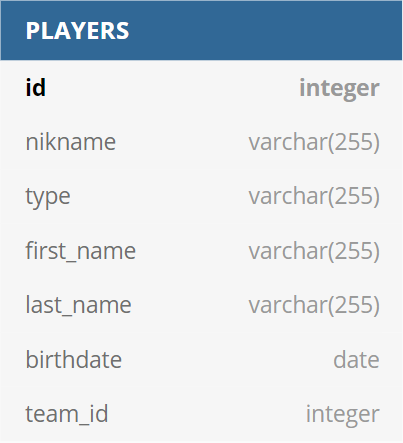
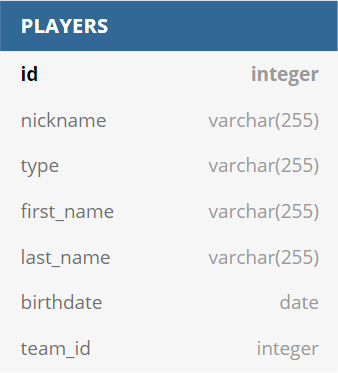
matrix done

diff --git a/course II/DBMS Oracle/My_project/README.md b/course II/DBMS Oracle/My_project/README.md
@@ -44,7 +44,7 @@ Table ARTICLES {
     title varchar(255) [not null]
     content text(15000) [not null]
     date date [not null]
-     event_id integer [null]
+    event_id integer [null]
     author_id integer [not null]
 }
    ```
@@ -146,12 +146,12 @@ Table MATCHES {
    ```dbml
 Table PLAYERS {
     id integer [pk, increment]
-    nikname varchar(255) [not null]
+    nickname varchar(255) [not null]
     type varchar(255) [not null]
     first_name varchar(255) [null]
     last_name varchar(255) [null]
     birthdate date [null]
-     team_id integer [null]
+    team_id integer [null]
 }
    ```
 </details>
@@ -216,22 +216,22 @@ Table USERS {
 
 ## 4. Матрица связей
 
-|       | Achievement | Article comment | Article | Event | Location | Map | Match comment | Match type | Match | Player | Role | Sponsor | Team | User |
+|   | Achievement | Article comment | Article | Event | Location | Map | Match comment | Match type | Match | Player | Role | Sponsor | Team | User |
 | ---: | :---: | :---: | :---: | :---: | :---: | :---: | :---: | :---: | :---: | :---: | :---: | :---: | :---: | :---: |
-| **Achievement** |     |     |
-| **Article comment** |     |     |
-| **Article** |     |     |
-| **Event** |     |     |
-| **Location** |     |     |
-| **Map** |     |     |
-| **Match comment** |     |     |
-| **Match type** |     |     |
-| **Match** |     |     |
-| **Player** |     |     |
-| **Role** |     |     |
-| **Sponsor** |     |     |
-| **Team** |     |     |
-| **User** |     |     |
+| **Achievement** |  |  |  |  |  |  |  |  |  | принадлежит |  |  | принадлежит |  |
+| **Article comment** |  | ответ на | относится к |  |  |  |  |  |  |  |  |  |  | написан |
+| **Article** |  | содержит |  | относится к |  |  |  |  |  |  |  |  |  | написана |
+| **Event** |  |  | упоминается в |  | проводится в |  |  |  | включает в себя |  |  | проводится | проводится для |  |
+| **Location** |  |  |  | место проведения для |  |  |  |  |  |  |  |  |  |  |
+| **Map** |  |  |  |  |  |  |  |  | играется в |  |  |  |  |  |
+| **Match comment** |  |  |  |  |  |  | ответ на |  | относится к |  |  |  |  | написан |
+| **Match type** |  |  |  |  |  |  |  |  | описывает |  |  |  |  |  |
+| **Match** |  |  |  | принадлежит |  | играется на | содержит | проводится в формате |  |  |  |  | участвует |  |
+| **Player** | имеет |  |  |  |  |  |  |  |  |  |  |  | состоит в | фаворит для |
+| **Role** |  |  |  |  |  |  |  |  |  |  |  |  |  | описывает |
+| **Sponsor** |  |  |  | проводит |  |  |  |  |  |  |  |  |  |  |
+| **Team** | имеет |  |  | приглашена на |  |  |  |  | участвует в | содержит |  |  |  | фаворит для |
+| **User** |  | написал | написал |  |  |  | написал |  |  | выбрал | имеет |  | выбрал |  |
 
 ## 5. Логическая модель
 
